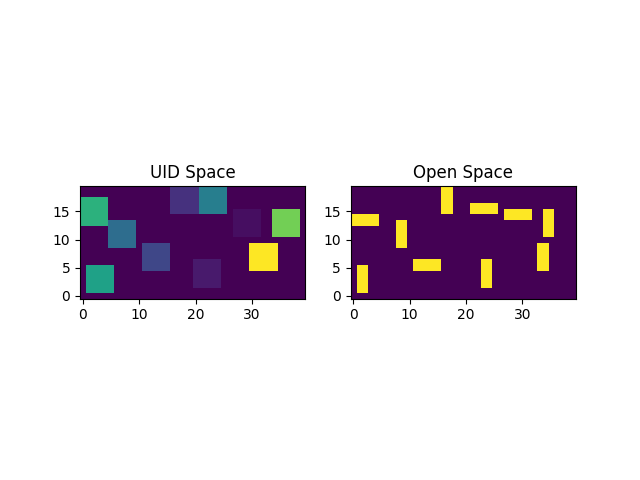
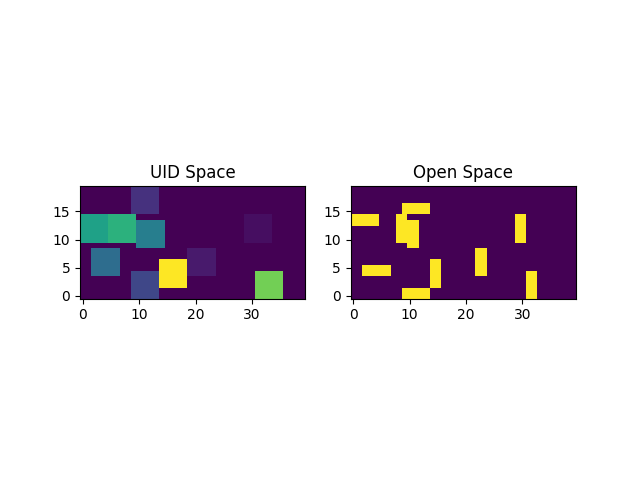
experimental section done, started conclusion

diff --git a/testingLEPS.py b/testingLEPS.py
@@ -21,9 +21,9 @@ if __name__ == "__main__":
     width = 40     # Width of the room
     height = 20    # Height of the room
     objects = [door1, door2, Couch] + desks
-    #objects = desks
-    N = 30  # Number of fireflies
-    T = 100  # Number of iterations
+    objects = desks
+    N = 50  # Number of fireflies
+    T = 200  # Number of iterations
 
     FireflyAlgorithm = FA(objects, width, height, N, T, name="LEPS Room")
     room = FireflyAlgorithm.optimize("taxi_cab_dist") 
